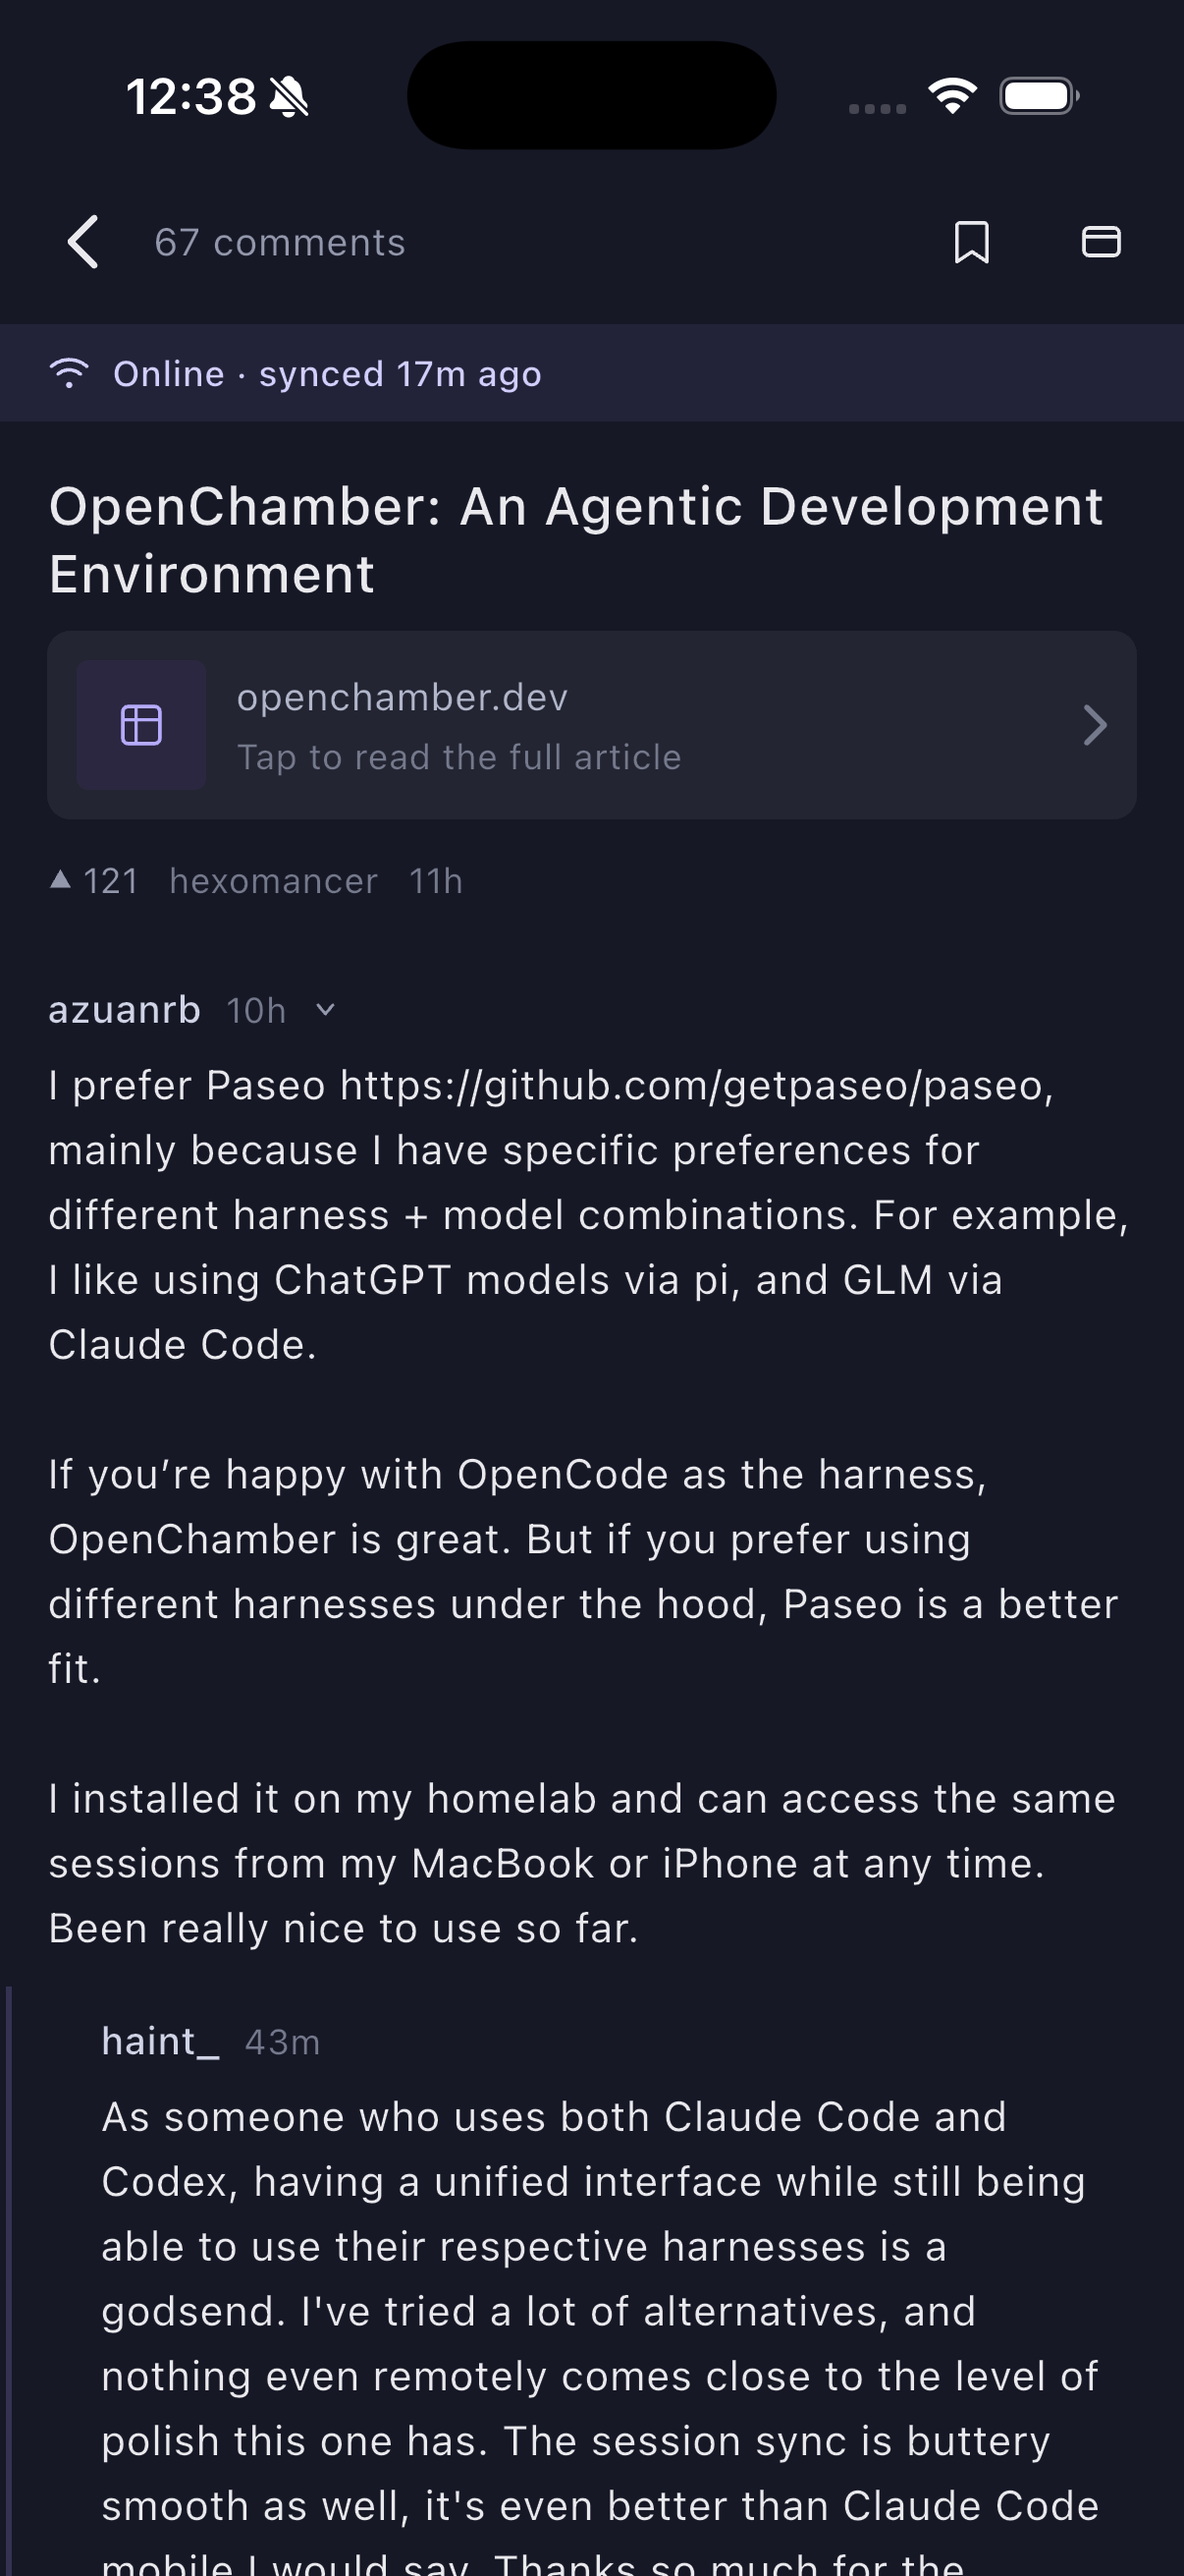
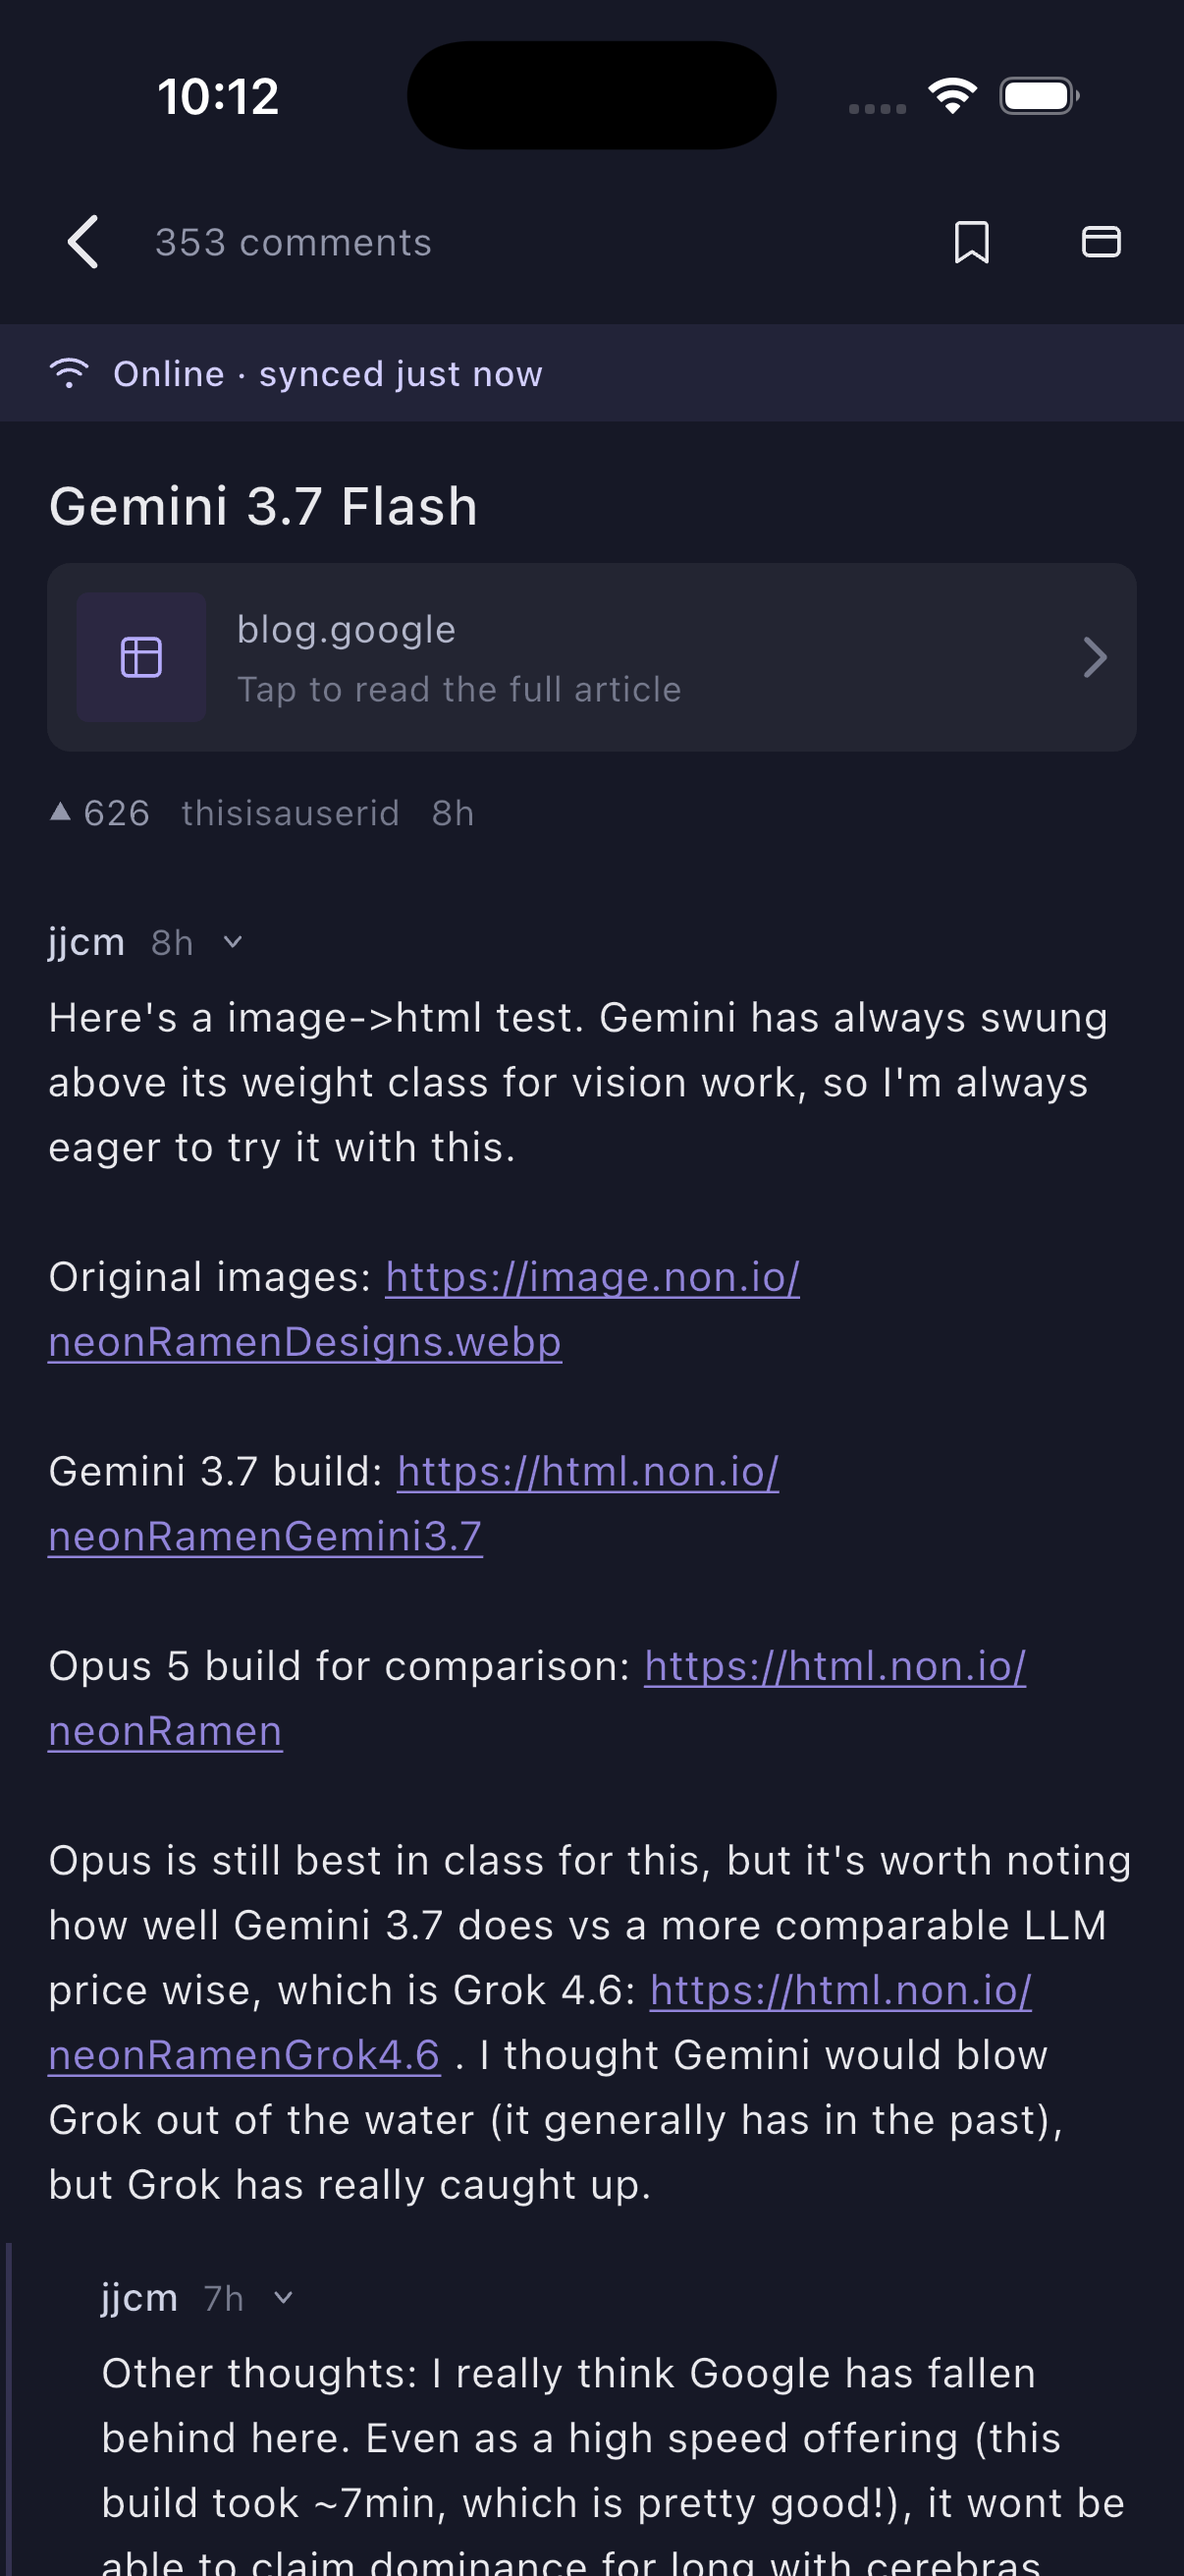
Refresh screenshots, add Pro features gallery with gesture GIFs
Home/Comments screenshots were stale (pre-dating the recent swipe-to-save,
open-book icon, and Saved Articles work in the app). Refreshed both from
a real device build, and added a Pro features gallery: two looping GIFs
(swipe-to-save-article, the Reader/Web toggle) plus three new screenshots
(Reader view, the Saved > Articles tab, the new "Reader by default"
setting). Updated the Free/Pro table's "Offline article reading" row to
describe all three entry points now that there's more than the Reader tap.

Captured via a new Flutter integration-test harness driving the iOS
Simulator (see the app repo's integration_test/screenshot_test.dart) with
Nocturne Pro unlocked, rather than mocked/staged content.

diff --git a/index.html b/index.html
@@ -68,10 +68,33 @@
             <tr><td>Auto-downloaded comments</td><td>full depth, every front-page story</td><td>same</td></tr>
             <tr><td>Saved threads</td><td>unlimited</td><td>same</td></tr>
             <tr><td>Saved comments</td><td>—</td><td>save an individual comment, not just its whole thread</td></tr>
-            <tr><td>Offline article reading</td><td>—</td><td>full article text, saved alongside the thread</td></tr>
+            <tr><td>Offline article reading</td><td>—</td><td>full article text — swipe a Home row, tap Reader, or turn on "Reader by default"</td></tr>
             <tr><td>Appearance</td><td>Nocturne dark, font scaling</td><td>+ AMOLED black, Hacker News (light)</td></tr>
           </tbody>
         </table>
+      </div>
+
+      <div class="pro-gallery">
+        <div class="pro-item">
+          <img src="assets/swipe.gif" alt="Swiping right on a Home story to save its linked article for offline reading, with a green Save panel revealed underneath" />
+          <p>Swipe any story on Home to save its full article for offline reading.</p>
+        </div>
+        <div class="pro-item">
+          <img src="assets/reader-toggle.gif" alt="Toggling a story's live web page into Nocturne's stripped-down Reader view" />
+          <p>Reader mode strips a page down to just its text — archived, not just displayed.</p>
+        </div>
+        <div class="pro-item">
+          <img src="assets/reader.png" alt="An archived article open in Reader view, marked &quot;Saved for offline&quot;" />
+          <p>Every saved article opens instantly, even with no connection at all.</p>
+        </div>
+        <div class="pro-item">
+          <img src="assets/saved-articles.png" alt="The Saved tab's Articles section, listing a saved article by site and title" />
+          <p>Saved articles get their own tab under Saved, so they're easy to find again.</p>
+        </div>
+        <div class="pro-item">
+          <img src="assets/settings-pro.png" alt="Settings showing the &quot;Open articles in Reader by default&quot; toggle" />
+          <p>Turn on "Reader by default" and every link post opens straight to its saved text.</p>
+        </div>
       </div>
 
       <h2>Privacy, in one paragraph</h2>

diff --git a/styles.css b/styles.css
@@ -134,6 +134,31 @@ main {
   box-shadow: 0 20px 60px rgba(0, 0, 0, 0.45);
 }
 
+.pro-gallery {
+  display: grid;
+  grid-template-columns: repeat(auto-fit, minmax(220px, 1fr));
+  gap: 28px;
+  margin: 24px 0 8px;
+}
+
+.pro-item {
+  text-align: center;
+}
+
+.pro-item img {
+  width: 100%;
+  max-width: 260px;
+  border-radius: 20px;
+  border: 1px solid var(--divider);
+  box-shadow: 0 20px 60px rgba(0, 0, 0, 0.45);
+}
+
+.pro-item p {
+  margin: 12px 0 0;
+  font-size: 13.5px;
+  color: var(--muted);
+}
+
 h2 {
   font-size: 22px;
   font-weight: 600;
